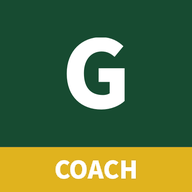
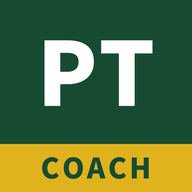
바로가기 아이콘 변경: G(짐토스) 대신 테마색 PT 아이콘
Claude-Session: https://claude.ai/code/session_012Da69ZdnRab5zMYcF42bZi

Changed region(s): [[0.2188, 0.1875, 0.8125, 0.5938], [0.2188, 0.8125, 0.7812, 0.9375], [0.0, 0.75, 1.0, 0.7812]]

diff --git a/coach-5gb96f/index.html b/coach-5gb96f/index.html
@@ -11,8 +11,8 @@
 <meta name="apple-mobile-web-app-title" content="PT노트 쌤">
 <meta name="apple-mobile-web-app-status-bar-style" content="default">
 <link rel="manifest" href="manifest.webmanifest">
-<link rel="icon" href="/assets/icon-coach-192.png">
-<link rel="apple-touch-icon" href="/assets/icon-coach-180.png">
+<link rel="icon" href="/assets/icon-coach-192.png?v=2">
+<link rel="apple-touch-icon" href="/assets/icon-coach-180.png?v=2">
 <link rel="preconnect" href="https://fonts.googleapis.com">
 <link rel="preconnect" href="https://fonts.gstatic.com" crossorigin>
 <link rel="stylesheet" href="https://fonts.googleapis.com/css2?family=Noto+Sans+KR:wght@400;500;700;900&display=swap">

diff --git a/m/sample-k7d2qx/index.html b/m/sample-k7d2qx/index.html
@@ -13,8 +13,8 @@
 <meta property="og:image" content="https://aejin12394.github.io/m/sample-k7d2qx/og.jpg">
 <meta property="og:image:width" content="1200">
 <meta property="og:image:height" content="630">
-<link rel="icon" href="../../assets/icon.png">
-<link rel="apple-touch-icon" href="../../assets/icon.png">
+<link rel="icon" href="../../assets/icon.png?v=2">
+<link rel="apple-touch-icon" href="../../assets/icon.png?v=2">
 <link rel="preconnect" href="https://fonts.googleapis.com">
 <link rel="preconnect" href="https://fonts.gstatic.com" crossorigin>
 <link rel="stylesheet" href="https://fonts.googleapis.com/css2?family=Noto+Sans+KR:wght@400;500;700;900&display=swap">

diff --git a/coach-5gb96f/intro.html b/coach-5gb96f/intro.html
@@ -8,7 +8,7 @@
 <meta name="theme-color" content="#0F3321">
 <meta name="apple-mobile-web-app-capable" content="yes">
 <meta name="mobile-web-app-capable" content="yes">
-<link rel="icon" href="/assets/icon-coach-192.png">
+<link rel="icon" href="/assets/icon-coach-192.png?v=2">
 <link rel="preconnect" href="https://fonts.googleapis.com">
 <link rel="stylesheet" href="https://fonts.googleapis.com/css2?family=Noto+Sans+KR:wght@400;500;700;900&family=Oswald:wght@500;600;700&display=swap">
 <!-- PT 안내서 아이패드(가로) 버전 — 2026-11-07. 내용은 Claude 슬라이드 "김애진 트레이너 소개"를 옮긴 것. 폰 버전은 guide.html -->

diff --git a/coach-5gb96f/guide.html b/coach-5gb96f/guide.html
@@ -8,7 +8,7 @@
 <meta name="theme-color" content="#1F6442">
 <meta name="apple-mobile-web-app-capable" content="yes">
 <meta name="mobile-web-app-capable" content="yes">
-<link rel="icon" href="/assets/icon-coach-192.png">
+<link rel="icon" href="/assets/icon-coach-192.png?v=2">
 <script>
 /* 아이패드·컴퓨터처럼 가로로 넓은 화면은 가로형(intro.html)으로 — 위 버튼으로 고른 게 있으면 그걸 따름 (2026-11-07) */
 (function () { try { var v = localStorage.getItem("ptview");

diff --git a/index.html b/index.html
@@ -5,7 +5,7 @@
 <meta name="viewport" content="width=device-width, initial-scale=1, viewport-fit=cover">
 <title>GYMTOS 도당점 PT 노트</title>
 <meta name="robots" content="noindex, nofollow">
-<link rel="icon" href="assets/icon.png">
+<link rel="icon" href="assets/icon.png?v=2">
 <link rel="stylesheet" href="assets/style.css">
 </head>
 <body>

diff --git a/_tools/make_app_icon.py b/_tools/make_app_icon.py
@@ -1,0 +1,30 @@
+"""바로가기(홈 화면) 아이콘 — 테마색 초록 바탕 + 흰 'PT' + 노랑 띠. 센터 이름(G) 없음. (2026-11-17)
+python3 _tools/make_app_icon.py   → assets/icon.png(회원 노트), assets/icon-coach-180/192/512.png(선생님 페이지)"""
+import os
+from PIL import Image, ImageDraw, ImageFont
+F_BLACK = "/usr/share/fonts/opentype/noto/NotoSansCJK-Black.ttc"
+ROOT = os.path.join(os.path.dirname(os.path.abspath(__file__)), "..", "assets")
+
+def centered(d, cx, cy, text, f, fill, track=0):
+    ws = [d.textlength(c, font=f) for c in text]
+    W = sum(ws) + track * (len(text) - 1)
+    bb = f.getbbox(text)
+    x = cx - W / 2
+    y = cy - (bb[1] + bb[3]) / 2
+    for c, w in zip(text, ws):
+        d.text((x, y), c, font=f, fill=fill)
+        x += w + track
+
+def make(path, size, bg, band_text, band="#E0B31E", band_ink="#174B31"):
+    S = 1024
+    im = Image.new("RGB", (S, S), bg)
+    d = ImageDraw.Draw(im)
+    band_h = int(S * 0.25)
+    d.rectangle([0, S - band_h, S, S], fill=band)
+    centered(d, S / 2, (S - band_h) / 2 + 6, "PT", ImageFont.truetype(F_BLACK, 470, index=1), "#FFFFFF", track=6)
+    centered(d, S / 2, S - band_h / 2, band_text, ImageFont.truetype(F_BLACK, 150, index=1), band_ink, track=14)
+    im.resize((size, size), Image.LANCZOS).save(path)
+
+make(os.path.join(ROOT, "icon.png"), 180, "#1F6442", "NOTE")
+for s in (180, 192, 512):
+    make(os.path.join(ROOT, "icon-coach-%d.png" % s), s, "#174B31", "COACH")

diff --git a/CLAUDE.md b/CLAUDE.md
@@ -14,6 +14,7 @@
   - [x] 선생님 페이지 폴더 = `coach-5gb96f/` (전체 반영됨)
 - [x] 3 출석 창고(Apps Script) 배포 (2026-11-17: 시트 "PT노트 출석", 프로젝트 "PT노트 출석 창고", Drive API 추가, 웹 앱 v1) → 웹 앱 URL을 assets/site.js att_api 에
   - [x] 열쇠 만들고 지문을 _tools/attendance_apps_script.gs RT_KEY_HASH 에 넣음 (열쇠는 선생님께 대화로 전달함 — 잃어버렸으면 make_key.py로 새로 만들고 지문 교체 후 재배포)
+- 바로가기(홈 화면) 아이콘 (2026-11-17 선생님 "짐토스 빼고 내 테마로"): 예전 'G' 대신 초록 바탕 + 흰 **PT** + 노랑 띠(회원 노트 = NOTE / 선생님 페이지 = COACH). `python3 _tools/make_app_icon.py` → assets/icon.png·icon-coach-*.png. 그림을 바꾸면 html·manifest의 `?v=` 숫자도 올릴 것. 화면 위 막대 logo.png(GYMTOS)는 그대로.
 - [ ] 4 선생님 폰 연결  ← **여기부터 이어서**
 - [x] 5 테마
 - [~] 6 PT 안내서: 이름·경력·자격·프로필 사진(guide/trainer.jpg) 채움. 비포애프터·화면 그림(placeholder.svg)은 아직.
@@ -88,7 +89,7 @@ _tools/anatomy_v3.py  인체모형 v3 (자극 부위 그림). build(경로, 앞 
 ## 새 회원 PT 노트 만들기
 0. **PT 시작일을 꼭 받기** (트레이너이 말해줌, "10월"처럼 달만 주면 그 달 15일로). 안 알려주면 물어볼 것. → data.js journey.start
 1. 주소: `m/<이름 로마자>-<랜덤 소문자·숫자 6자>/` (예: jisu-k3x9qa). 추측하기 어렵게.
-2. `m/sample-k7d2qx/index.html` 복사(site.js·exicons.js·app.js 스크립트 태그 그대로) → 제목·og:title·헤더 문구의 이름, og:image 경로, theme-color(여 #B28B0A) 바꾸기.
+2. `m/sample-k7d2qx/index.html` 복사(아이콘 `icon.png?v=2` 줄·site.js·exicons.js·app.js 스크립트 태그 그대로) → 제목·og:title·헤더 문구의 이름, og:image 경로, theme-color(여 #B28B0A) 바꾸기.
 3. data.js 작성 (아래 형식). sex "F"면 핑크 테마·핑크 아이콘 자동.
 4. og.jpg 생성 (1200×630, 테마색 배경 + 로고 + "MY PT NOTE · 나만의 운동 노트" + "OOO 회원님" + 아래 띠 "GYMTOS 도당점 · 담당 OOO 트레이너").
 5. 위 회원 목록 표에 추가하고, coach-5gb96f/members.js에도 주소 추가.
